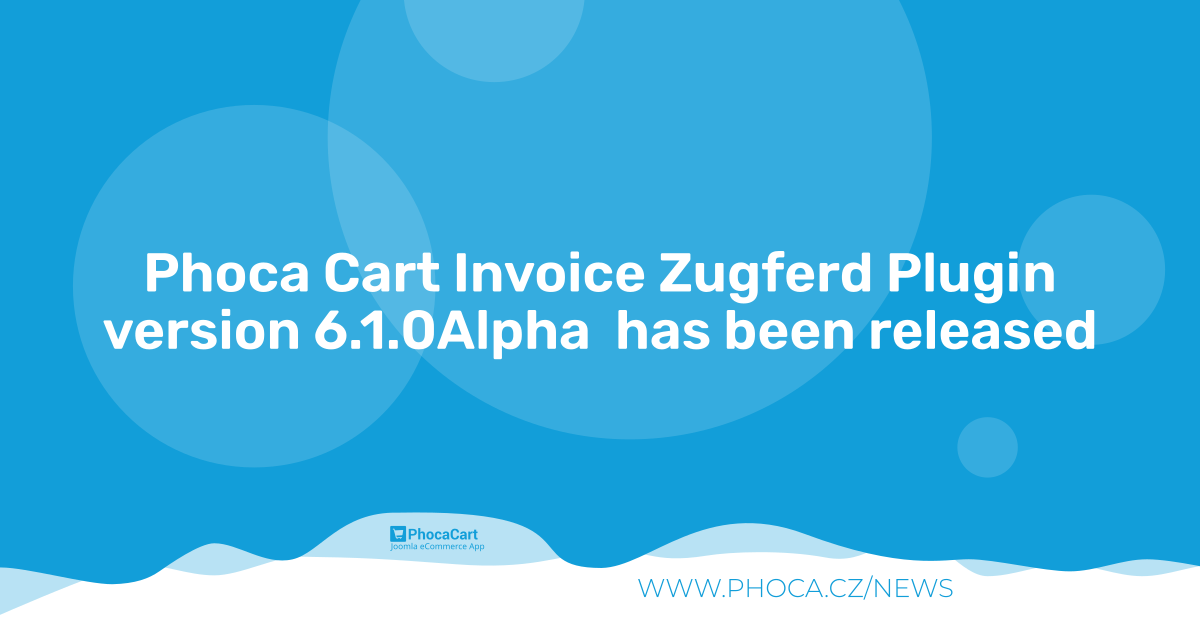
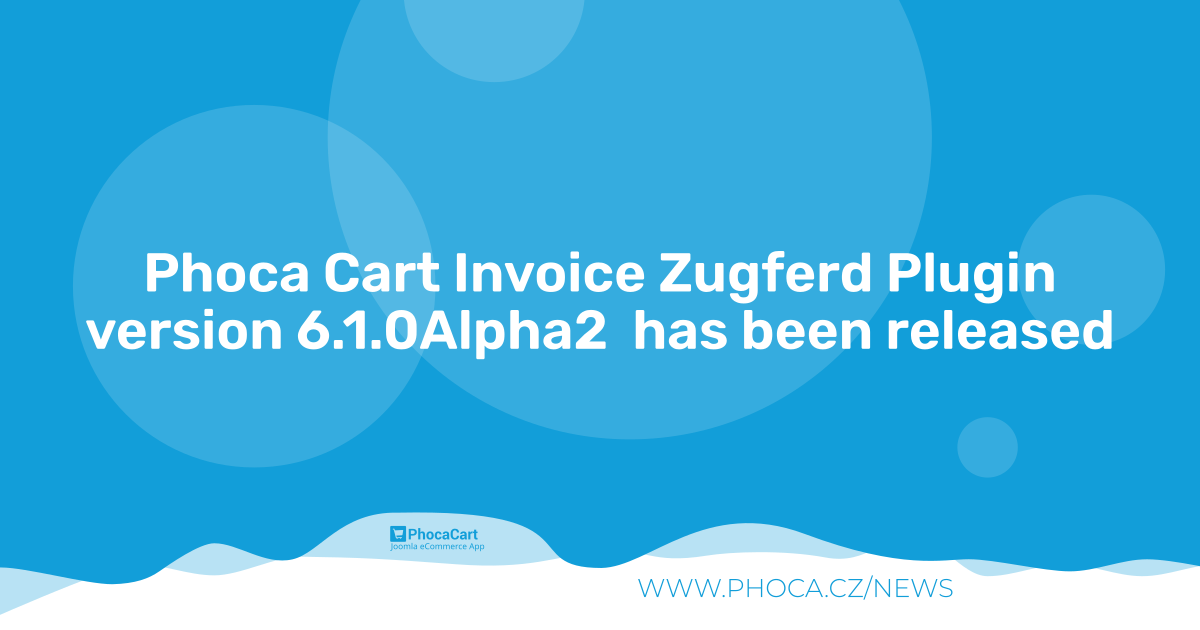
6.1.0Alpha2

Changed region(s): [[0.0617, 0.4825, 0.925, 0.573]]

diff --git a/tmpl/output.php b/tmpl/output.php
@@ -68,6 +68,29 @@ foreach ($products as $product) {
     $netto = $builder->getAmount($product->netto, $product->netto_currency ?? 0);
     $tax = $builder->getAmount($product->tax, $product->tax_currency ?? 0);
 
+    // Attributes
+    $desc = $product->title ?? '';
+    if (!empty($product->attributes)) {
+        foreach ($product->attributes as $attr) {
+            $desc .= "\n - " . $attr->attribute_title . ' ' . $attr->option_title;
+        }
+    }
+
+    // Product Discounts - follow order.php sequential logic (Code 1) to get the latest item
+    $orderParams = $orderData['params'] ?? null;
+    $display_discount_price_product = $orderParams ? $orderParams->get('display_discount_price_product', 0) : 0;
+    $discounts = $orderData['discounts'] ?? [];
+
+    if ($display_discount_price_product == 1 && !empty($discounts[$product->product_id_key])) {
+        foreach ($discounts[$product->product_id_key] as $v3) {
+            $netto = $builder->getAmount($v3->netto, $v3->netto_currency ?? 0);
+            $tax = $builder->getAmount($v3->tax, $v3->tax_currency ?? 0);
+            if (!empty($v3->title)) {
+                $desc .= ' (' . $v3->title . ')';
+            }
+        }
+    }
+
     $lineItem = $dom->createElementNS($namespaces['ram'], 'ram:IncludedSupplyChainTradeLineItem');
     $transaction->appendChild($lineItem);
 
@@ -82,7 +105,7 @@ foreach ($products as $product) {
         $sellerAssignedId = $dom->createElementNS($namespaces['ram'], 'ram:SellerAssignedID', $product->sku);
         $tradeProduct->appendChild($sellerAssignedId);
     }
-    $productName = $dom->createElementNS($namespaces['ram'], 'ram:Name', $product->title ?? '');
+    $productName = $dom->createElementNS($namespaces['ram'], 'ram:Name', $desc);
     $tradeProduct->appendChild($productName);
 
     $lineTradeAgreement = $dom->createElementNS($namespaces['ram'], 'ram:SpecifiedLineTradeAgreement');
@@ -103,10 +126,6 @@ foreach ($products as $product) {
     $lineItem->appendChild($lineTradeSettlement);
 
     $taxRate = $product->default_tax_rate;
-    /*$taxRate = 0;
-    if ($netto > 0) {
-        $taxRate = round(($tax / $netto) * 100, 2);
-    }*/
     $applicableTradeTax = $dom->createElementNS($namespaces['ram'], 'ram:ApplicableTradeTax');
     $lineTradeSettlement->appendChild($applicableTradeTax);
     $typeCode = $dom->createElementNS($namespaces['ram'], 'ram:TypeCode', 'VAT');
@@ -122,6 +141,68 @@ foreach ($products as $product) {
     $monetarySummation->appendChild($lineTotalAmount);
 
     $lineNumber++;
+}
+
+// Cart Discounts, Shipping, Payment, etc.
+if (!empty($total)) {
+    foreach ($total as $t) {
+        $skipTypes = ['netto', 'brutto', 'tax', 'rounding', 'dbrutto'];
+        if (in_array($t->type, $skipTypes)) {
+            continue;
+        }
+        if ($t->amount == 0 && ($t->amount_currency ?? 0) == 0) {
+            continue;
+        }
+
+        $lineNetto = $builder->getAmount($t->amount, $t->amount_currency ?? 0);
+        $lineTaxRate = $t->tax_rate ?? 0;
+
+        $lineItem = $dom->createElementNS($namespaces['ram'], 'ram:IncludedSupplyChainTradeLineItem');
+        $transaction->appendChild($lineItem);
+
+        $lineDoc = $dom->createElementNS($namespaces['ram'], 'ram:AssociatedDocumentLineDocument');
+        $lineItem->appendChild($lineDoc);
+        $lineId = $dom->createElementNS($namespaces['ram'], 'ram:LineID', (string)$lineNumber);
+        $lineDoc->appendChild($lineId);
+
+        $tradeProduct = $dom->createElementNS($namespaces['ram'], 'ram:SpecifiedTradeProduct');
+        $lineItem->appendChild($tradeProduct);
+        $productName = $dom->createElementNS($namespaces['ram'], 'ram:Name', $t->title ?? '');
+        $tradeProduct->appendChild($productName);
+
+        $lineTradeAgreement = $dom->createElementNS($namespaces['ram'], 'ram:SpecifiedLineTradeAgreement');
+        $lineItem->appendChild($lineTradeAgreement);
+
+        $netPrice = $dom->createElementNS($namespaces['ram'], 'ram:NetPriceProductTradePrice');
+        $lineTradeAgreement->appendChild($netPrice);
+        $chargeAmount = $dom->createElementNS($namespaces['ram'], 'ram:ChargeAmount', number_format($lineNetto, 2, '.', ''));
+        $netPrice->appendChild($chargeAmount);
+
+        $lineTradeDelivery = $dom->createElementNS($namespaces['ram'], 'ram:SpecifiedLineTradeDelivery');
+        $lineItem->appendChild($lineTradeDelivery);
+        $billedQuantity = $dom->createElementNS($namespaces['ram'], 'ram:BilledQuantity', '1');
+        $billedQuantity->setAttribute('unitCode', 'C62');
+        $lineTradeDelivery->appendChild($billedQuantity);
+
+        $lineTradeSettlement = $dom->createElementNS($namespaces['ram'], 'ram:SpecifiedLineTradeSettlement');
+        $lineItem->appendChild($lineTradeSettlement);
+
+        $applicableTradeTax = $dom->createElementNS($namespaces['ram'], 'ram:ApplicableTradeTax');
+        $lineTradeSettlement->appendChild($applicableTradeTax);
+        $typeCode = $dom->createElementNS($namespaces['ram'], 'ram:TypeCode', 'VAT');
+        $applicableTradeTax->appendChild($typeCode);
+        $categoryCode = $dom->createElementNS($namespaces['ram'], 'ram:CategoryCode', 'S');
+        $applicableTradeTax->appendChild($categoryCode);
+        $ratePercent = $dom->createElementNS($namespaces['ram'], 'ram:RateApplicablePercent', number_format($lineTaxRate, 2, '.', ''));
+        $applicableTradeTax->appendChild($ratePercent);
+
+        $monetarySummation = $dom->createElementNS($namespaces['ram'], 'ram:SpecifiedTradeSettlementLineMonetarySummation');
+        $lineTradeSettlement->appendChild($monetarySummation);
+        $lineTotalAmount = $dom->createElementNS($namespaces['ram'], 'ram:LineTotalAmount', number_format($lineNetto, 2, '.', ''));
+        $monetarySummation->appendChild($lineTotalAmount);
+
+        $lineNumber++;
+    }
 }
 
 
@@ -209,92 +290,123 @@ $transaction->appendChild($settlement);
 $currencyCode = $dom->createElementNS($namespaces['ram'], 'ram:InvoiceCurrencyCode', $builder->getCurrencyCode());
 $settlement->appendChild($currencyCode);
 
-$totalTaxAmount = 0;
-$totalNettoAmount = 0;
+$totalTaxSum = 0;
+$totalNetBasisSum = 0;
 
-// Calculate totals dynamically from 'total' array
-if (!empty($total)) {
+if (!empty($taxrecapitulation)) {
+    foreach ($taxrecapitulation as $v) {
+        if ($v->type == 'tax') {
+            $currRate = (float)($v->tax_rate ?? 0);
+            
+            // Try to get original rate from database to avoid rounding errors (19.98 vs 20)
+            if ($currRate == 0 && (int)$v->item_id > 0) {
+                // Check if it's a country or region specific tax override
+                if ((int)$v->item_id_c > 0) {
+                    $db = Factory::getDbo();
+                    $q = $db->getQuery(true)->select('tax_rate')->from('#__phocacart_tax_countries')->where('id = ' . (int)$v->item_id_c);
+                    $db->setQuery($q);
+                    $currRate = (float)$db->loadResult();
+                } else if ((int)$v->item_id_r > 0) {
+                    $db = Factory::getDbo();
+                    $q = $db->getQuery(true)->select('tax_rate')->from('#__phocacart_tax_regions')->where('id = ' . (int)$v->item_id_r);
+                    $db->setQuery($q);
+                    $currRate = (float)$db->loadResult();
+                } else {
+                    $db = Factory::getDbo();
+                    $q = $db->getQuery(true)->select('tax_rate')->from('#__phocacart_taxes')->where('id = ' . (int)$v->item_id);
+                    $db->setQuery($q);
+                    $currRate = (float)$db->loadResult();
+                }
+            }
+
+            // Fallback to calculation if still 0 but amounts exist (legitimate 0% is fine, but 19.98% error isn't)
+            if ($currRate == 0 && $v->amount_netto != 0 && $v->amount_tax != 0) {
+                $currRate = round(($v->amount_tax / $v->amount_netto) * 100, 2);
+            }
+
+            $tradeTax = $dom->createElementNS($namespaces['ram'], 'ram:ApplicableTradeTax');
+            $settlement->appendChild($tradeTax);
+
+            $calculatedAmount = $dom->createElementNS($namespaces['ram'], 'ram:CalculatedAmount', number_format($v->amount_tax, 2, '.', ''));
+            $tradeTax->appendChild($calculatedAmount);
+
+            $typeCode = $dom->createElementNS($namespaces['ram'], 'ram:TypeCode', 'VAT');
+            $tradeTax->appendChild($typeCode);
+
+            $basisAmount = $dom->createElementNS($namespaces['ram'], 'ram:BasisAmount', number_format($v->amount_netto, 2, '.', ''));
+            $tradeTax->appendChild($basisAmount);
+
+            $categoryCode = $dom->createElementNS($namespaces['ram'], 'ram:CategoryCode', 'S');
+            $tradeTax->appendChild($categoryCode);
+
+            $ratePercent = $dom->createElementNS($namespaces['ram'], 'ram:RateApplicablePercent', number_format($currRate, 2, '.', ''));
+            $tradeTax->appendChild($ratePercent);
+
+            $totalTaxSum += $v->amount_tax;
+            $totalNetBasisSum += $v->amount_netto;
+        }
+    }
+} else {
+    // Fallback logic
+    $totalTaxAmountFallback = 0;
+    $totalNettoAmountFallback = 0;
     foreach ($total as $t) {
         $amount = $builder->getAmount($t->amount, $t->amount_currency ?? 0);
-        if (isset($t->type) && $t->type == 'tax') {
-            $totalTaxAmount += $amount;
+        if (isset($t->type) && $t->type == 'tax') { $totalTaxAmountFallback += $amount; }
+        if (isset($t->type) && $t->type == 'netto') { $totalNettoAmountFallback += $amount; }
+    }
+    $totalTaxSum = $totalTaxAmountFallback;
+    $totalNetBasisSum = $totalNettoAmountFallback;
+
+    $rate = 0;
+    if ($totalNetBasisSum != 0) {
+        $rate = round(($totalTaxSum / $totalNetBasisSum) * 100, 2);
+    }
+
+    $tradeTax = $dom->createElementNS($namespaces['ram'], 'ram:ApplicableTradeTax');
+    $settlement->appendChild($tradeTax);
+    $tradeTax->appendChild($dom->createElementNS($namespaces['ram'], 'ram:CalculatedAmount', number_format($totalTaxSum, 2, '.', '')));
+    $tradeTax->appendChild($dom->createElementNS($namespaces['ram'], 'ram:TypeCode', 'VAT'));
+    $tradeTax->appendChild($dom->createElementNS($namespaces['ram'], 'ram:BasisAmount', number_format($totalNetBasisSum, 2, '.', '')));
+    $tradeTax->appendChild($dom->createElementNS($namespaces['ram'], 'ram:CategoryCode', 'S'));
+    $tradeTax->appendChild($dom->createElementNS($namespaces['ram'], 'ram:RateApplicablePercent', number_format($rate, 2, '.', '')));
+}
+
+// Recalculate Sum of EVERYTHING that was actually put into lines to fulfill Factur-X/ZUGFeRD validation:
+// LineTotalAmount must equal sum of line net amounts.
+$lineSumTotal = 0;
+foreach ($products as $product) {
+    $pNetto = $builder->getAmount($product->netto, $product->netto_currency ?? 0);
+    if ($display_discount_price_product == 1 && !empty($discounts[$product->product_id_key])) {
+        foreach ($discounts[$product->product_id_key] as $v3) {
+            $pNetto = $builder->getAmount($v3->netto, $v3->netto_currency ?? 0);
         }
-        if (isset($t->type) && $t->type == 'netto') {
-            $totalNettoAmount += $amount;
-        }
+    }
+    $lineSumTotal += ($pNetto * $product->quantity);
+}
+// Add shipping, payment items from total array
+if (!empty($total)) {
+    foreach ($total as $t) {
+        $skipTypes = ['netto', 'brutto', 'tax', 'rounding', 'dbrutto'];
+        if (in_array($t->type, $skipTypes)) { continue; }
+        if ($t->amount == 0 && ($t->amount_currency ?? 0) == 0) { continue; }
+        $lineSumTotal += $builder->getAmount($t->amount, $t->amount_currency ?? 0);
     }
 }
 
-// Generate a single Tax Subtotal based on the aggregated totals
-// This avoids issues with taxrecapitulation duplicates/zeros
-$rate = 0;
-if ($totalNettoAmount != 0) {
-    $rate = round(($totalTaxAmount / $totalNettoAmount) * 100, 2);
-}
-
-$tradeTax = $dom->createElementNS($namespaces['ram'], 'ram:ApplicableTradeTax');
-$settlement->appendChild($tradeTax);
-
-$calculatedAmount = $dom->createElementNS($namespaces['ram'], 'ram:CalculatedAmount', number_format($totalTaxAmount, 2, '.', ''));
-$tradeTax->appendChild($calculatedAmount);
-
-$typeCode = $dom->createElementNS($namespaces['ram'], 'ram:TypeCode', 'VAT');
-$tradeTax->appendChild($typeCode);
-
-$basisAmount = $dom->createElementNS($namespaces['ram'], 'ram:BasisAmount', number_format($totalNettoAmount, 2, '.', ''));
-$tradeTax->appendChild($basisAmount);
-
-$categoryCode = $dom->createElementNS($namespaces['ram'], 'ram:CategoryCode', 'S');
-$tradeTax->appendChild($categoryCode);
-
-$ratePercent = $dom->createElementNS($namespaces['ram'], 'ram:RateApplicablePercent', number_format($rate, 2, '.', ''));
-$tradeTax->appendChild($ratePercent);
-
-$nettoTotal = 0;
 $bruttoTotal = 0;
 $roundingTotal = 0;
 
-// Phoca Cart order logic for specific tax calculation setting
-$orderParams = $orderData['params'] ?? null;
-$tax_calculation_sales = $orderParams ? $orderParams->get('tax_calculation_sales', 0) : 0;
-$tax_calculation_sales_change_subtotal = $orderParams ? $orderParams->get('tax_calculation_sales_change_subtotal', 0) : 0;
-
-$correctedNetto = null;
-
-if ($tax_calculation_sales == 2 && $tax_calculation_sales_change_subtotal == 1 && !empty($total)) {
-    $cBrutto = 0;
-    $cDbrutto = 0;
-    $cTax = 0;
-    $cRounding = 0;
-
-    foreach($total as $t) {
-        $amount = $builder->getAmount($t->amount, $t->amount_currency ?? 0);
-        if ($t->type == 'brutto') { $cBrutto += $amount; }
-        if ($t->type == 'dbrutto') { $cDbrutto += $amount; }
-        if ($t->type == 'tax') { $cTax += $amount; }
-        if ($t->type == 'rounding') { $cRounding += $amount; }
-    }
-    $correctedNetto = $cBrutto - $cDbrutto - $cTax - $cRounding;
-}
-
 if (!empty($total)) {
     foreach ($total as $t) {
         $amount = $builder->getAmount($t->amount, $t->amount_currency ?? 0);
-
         if (isset($t->type) && $t->type == 'brutto') {
-            $bruttoTotal = $amount ?? 0;
-        }
-        if (isset($t->type) && $t->type == 'netto') {
-            $nettoTotal = $amount ?? 0;
+            $bruttoTotal = $amount;
         }
         if (isset($t->type) && $t->type == 'rounding') {
-            $roundingTotal = $amount ?? 0;
+            $roundingTotal = $amount;
         }
     }
-}
-
-if ($correctedNetto !== null) {
-    $nettoTotal = $correctedNetto;
 }
 
 if ($bruttoTotal == 0 && isset($common->total_amount)) {
@@ -304,21 +416,21 @@ if ($bruttoTotal == 0 && isset($common->total_amount)) {
 $monetarySummation = $dom->createElementNS($namespaces['ram'], 'ram:SpecifiedTradeSettlementHeaderMonetarySummation');
 $settlement->appendChild($monetarySummation);
 
-$lineTotalAmount = $dom->createElementNS($namespaces['ram'], 'ram:LineTotalAmount', number_format($nettoTotal, 2, '.', ''));
-$monetarySummation->appendChild($lineTotalAmount);
+$lineTotalAmountNode = $dom->createElementNS($namespaces['ram'], 'ram:LineTotalAmount', number_format($lineSumTotal, 2, '.', ''));
+$monetarySummation->appendChild($lineTotalAmountNode);
 
-$taxBasisTotalAmount = $dom->createElementNS($namespaces['ram'], 'ram:TaxBasisTotalAmount', number_format($nettoTotal, 2, '.', ''));
-$monetarySummation->appendChild($taxBasisTotalAmount);
+$taxBasisTotalAmountNode = $dom->createElementNS($namespaces['ram'], 'ram:TaxBasisTotalAmount', number_format($lineSumTotal, 2, '.', ''));
+$monetarySummation->appendChild($taxBasisTotalAmountNode);
 
-$taxTotalAmount = $dom->createElementNS($namespaces['ram'], 'ram:TaxTotalAmount', number_format($totalTaxAmount, 2, '.', ''));
-$taxTotalAmount->setAttribute('currencyID', $builder->getCurrencyCode());
-$monetarySummation->appendChild($taxTotalAmount);
+$taxTotalAmountNode = $dom->createElementNS($namespaces['ram'], 'ram:TaxTotalAmount', number_format($totalTaxSum, 2, '.', ''));
+$taxTotalAmountNode->setAttribute('currencyID', $builder->getCurrencyCode());
+$monetarySummation->appendChild($taxTotalAmountNode);
 
-$grandTotalAmount = $dom->createElementNS($namespaces['ram'], 'ram:GrandTotalAmount', number_format($bruttoTotal, 2, '.', ''));
-$monetarySummation->appendChild($grandTotalAmount);
+$grandTotalAmountNode = $dom->createElementNS($namespaces['ram'], 'ram:GrandTotalAmount', number_format($bruttoTotal, 2, '.', ''));
+$monetarySummation->appendChild($grandTotalAmountNode);
 
-$duePayableAmount = $dom->createElementNS($namespaces['ram'], 'ram:DuePayableAmount', number_format($bruttoTotal, 2, '.', ''));
-$monetarySummation->appendChild($duePayableAmount);
+$duePayableAmountNode = $dom->createElementNS($namespaces['ram'], 'ram:DuePayableAmount', number_format($bruttoTotal, 2, '.', ''));
+$monetarySummation->appendChild($duePayableAmountNode);
 
 
 echo $dom->saveXML();
